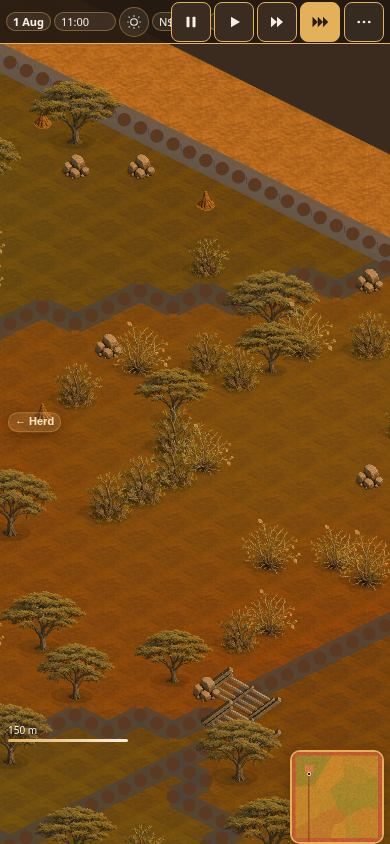
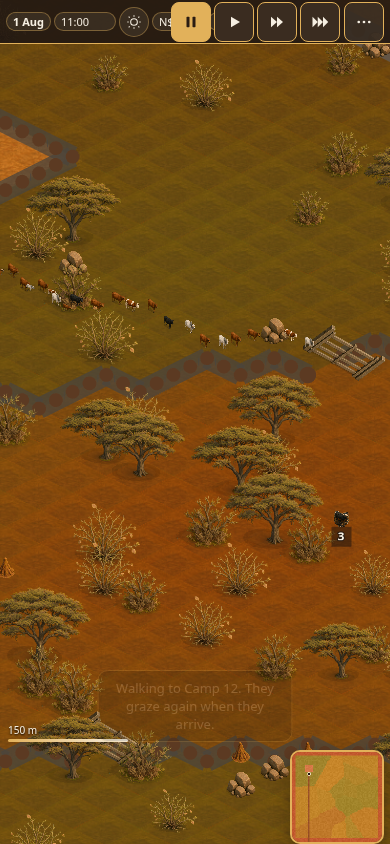
Fix night veil and herd capture with automated screenshot checks
Lock capture clock at 22:00, add DOM night-veil for visible darkness in
play and PNGs, frame the herd mid-transit with cull skip and transit hold,
and fail capture-step1 when night luma or cattle in view checks do not pass.

diff --git a/src/render/FarmScene.ts b/src/render/FarmScene.ts
@@ -108,6 +108,10 @@ export class FarmScene extends Phaser.Scene {
   private homesteadGlow?: Phaser.GameObjects.Graphics;
   private homesteadLight?: { x: number; y: number };
   private captureHideHerdLabel = false;
+  private captureLightingHour: number | null = null;
+  private captureFreezeClock = false;
+  private captureSkipCowCull = false;
+  private captureHoldTransit = false;
   private selected = false;
   private pendingCampId: number | null = null;
   private pendingCampName = "";
@@ -260,6 +264,7 @@ export class FarmScene extends Phaser.Scene {
     this.syncHud();
     const onResize = () => {
       if (!this.sys?.isActive()) return;
+      this.fitNightOverlay();
       this.layoutCamera(false);
     };
     this.scale.on("resize", onResize);
@@ -286,12 +291,23 @@ export class FarmScene extends Phaser.Scene {
   }
 
   private applyRanchLighting(): void {
-    const hour = this.state.date.hour;
+    const hour = this.captureLightingHour ?? this.state.date.hour;
     const blend = sceneDaylightBlend(hour);
     const night = nightOverlayAlpha(hour);
     this.hud.setDaylight(blend);
+    this.hud.setNightChrome(night > 0.35);
+    this.fitNightOverlay();
     if (this.nightOverlay) this.nightOverlay.setAlpha(night);
+    const veil = document.getElementById("night-veil");
+    if (veil) veil.style.opacity = String(night);
     this.updateHomesteadGlow(night);
+  }
+
+  private fitNightOverlay(): void {
+    if (!this.nightOverlay) return;
+    const cam = this.cameras.main;
+    this.nightOverlay.setPosition(0, 0);
+    this.nightOverlay.setSize(Math.ceil(cam.width), Math.ceil(cam.height));
   }
 
   private updateHomesteadGlow(nightAlpha: number): void {
@@ -315,6 +331,102 @@ export class FarmScene extends Phaser.Scene {
     if (!this.state.clock) return;
     this.state.clock.settings.dayLengthSeconds = seconds;
     this.persist();
+  }
+
+  private captureDiagnostics(): Record<string, unknown> {
+    const cam = this.cameras.main;
+    const center = this.mobCenter();
+    const night = nightOverlayAlpha(this.captureLightingHour ?? this.state.date.hour);
+    return {
+      hour: this.state.date.hour,
+      hudTime: document.getElementById("stat-time")?.textContent ?? "",
+      nightOverlay: this.nightOverlay?.alpha ?? 0,
+      nightAlpha: night,
+      daylightBlend: sceneDaylightBlend(this.captureLightingHour ?? this.state.date.hour),
+      inTransit: herdInTransit(this.state.herd),
+      transitProgress: this.state.herd.transit?.progress ?? 0,
+      cattleInView: this.countCattleInView(),
+      mobCenter: center,
+      cameraCenter: {
+        x: cam.scrollX + cam.width / (2 * cam.zoom),
+        y: cam.scrollY + cam.height / (2 * cam.zoom),
+      },
+      zoom: cam.zoom,
+      canvasLuminance: this.canvasMeanLuminance(),
+    };
+  }
+
+  private canvasMeanLuminance(): number {
+    if (typeof document === "undefined") return 0;
+    const canvas = document.querySelector<HTMLCanvasElement>("#game canvas");
+    if (!canvas) return 0;
+    const ctx = canvas.getContext("2d", { willReadFrequently: true });
+    if (!ctx || canvas.width < 8 || canvas.height < 8) return 0;
+    const sampleW = Math.min(320, canvas.width);
+    const sampleH = Math.min(240, canvas.height);
+    const ox = Math.floor((canvas.width - sampleW) / 2);
+    const oy = Math.floor((canvas.height - sampleH) / 2);
+    const data = ctx.getImageData(ox, oy, sampleW, sampleH).data;
+    let sum = 0;
+    const pixels = data.length / 4;
+    for (let i = 0; i < data.length; i += 4) {
+      sum += data[i] * 0.2126 + data[i + 1] * 0.7152 + data[i + 2] * 0.0722;
+    }
+    return sum / pixels;
+  }
+
+  private countCattleInView(): number {
+    const view = this.cameras.main.worldView;
+    let count = 0;
+    for (let i = 0; i < this.cows.length; i += 1) {
+      const cow = this.cows[i];
+      if (!cow.visible) continue;
+      if (view.contains(cow.x, cow.y)) count += 1;
+    }
+    return count;
+  }
+
+  private holdTransitProgress(progress?: number): boolean {
+    if (!herdInTransit(this.state.herd)) return false;
+    this.captureHoldTransit = true;
+    this.captureFreezeClock = true;
+    this.setSpeed("pause");
+    if (typeof progress === "number" && this.state.herd.transit) {
+      this.state.herd.transit.progress = Math.max(0.05, Math.min(0.95, progress));
+    }
+    this.syncHerdFromSim();
+    this.placeHerd(performance.now());
+    return true;
+  }
+
+  private bumpHerdCaptureZoom(zoom: number): Record<string, unknown> {
+    this.captureSkipCowCull = true;
+    this.captureHideHerdLabel = true;
+    this.hud.setHerdLocator(false, "", "right");
+    const camera = this.cameras.main;
+    camera.setZoom(clampZoom(zoom, this.minZoom, this.maxZoom));
+    this.placeHerd(performance.now());
+    for (const cow of this.cows) cow.setVisible(true);
+    return this.captureDiagnostics();
+  }
+
+  private frameHerdForCapture(zoom: number): Record<string, unknown> {
+    this.captureSkipCowCull = true;
+    this.captureHideHerdLabel = true;
+    this.hud.setHerdLocator(false, "", "right");
+    this.syncHerdFromSim();
+    this.placeHerd(performance.now());
+    const camera = this.cameras.main;
+    camera.setZoom(clampZoom(zoom, this.minZoom, this.maxZoom));
+    const center = this.mobCenter();
+    this.jumpCameraTo(center.x, center.y, false);
+    this.placeHerd(performance.now());
+    const refined = this.mobCenter();
+    camera.centerOn(refined.x, refined.y);
+    this.clampScroll();
+    this.placeHerd(performance.now());
+    for (const cow of this.cows) cow.setVisible(true);
+    return this.captureDiagnostics();
   }
 
   private pickDistantMoveCamp(): number | null {
@@ -483,6 +595,10 @@ export class FarmScene extends Phaser.Scene {
         };
       },
       prepareForScreenshot: () => {
+        this.captureFreezeClock = true;
+        this.captureLightingHour = null;
+        this.captureSkipCowCull = false;
+        this.captureHoldTransit = false;
         this.setSpeed("pause");
         this.hud.hideEventCard();
         this.hud.clearHint();
@@ -555,17 +671,24 @@ export class FarmScene extends Phaser.Scene {
         return true;
       },
       setNightForCapture: () => {
+        this.captureLightingHour = 22;
         this.state.date.hour = 22;
         this.applyRanchLighting();
         this.syncHud();
-        return true;
+        return this.captureDiagnostics();
       },
       resetDaylightForCapture: () => {
+        this.captureLightingHour = 11;
         this.state.date.hour = 11;
         this.applyRanchLighting();
         this.syncHud();
-        return true;
+        return this.captureDiagnostics();
       },
+      captureDiagnostics: () => this.captureDiagnostics(),
+      canvasMeanLuminance: () => this.canvasMeanLuminance(),
+      countCattleInView: () => this.countCattleInView(),
+      herdInTransit: () => herdInTransit(this.state.herd),
+      frameHerdForCapture: (zoom = 1.05) => this.frameHerdForCapture(zoom),
       setSpeed: (mode: SpeedMode) => {
         this.setSpeed(mode);
         return true;
@@ -585,37 +708,20 @@ export class FarmScene extends Phaser.Scene {
         this.redrawFences();
         return camera.zoom;
       },
-      zoomHerdWalkCapture: () => {
-        const camera = this.cameras.main;
-        this.captureHideHerdLabel = true;
-        this.refreshHerdLabel();
-        camera.setZoom(clampZoom(1.02, this.minZoom, this.maxZoom));
-        const center = this.mobCenter();
-        this.jumpCameraTo(center.x, center.y, false);
-        this.clampScroll();
-        this.placeHerd(performance.now());
-        return camera.zoom;
-      },
-      zoomHerdCloseupCapture: () => {
-        const camera = this.cameras.main;
-        this.captureHideHerdLabel = true;
-        this.refreshHerdLabel();
-        camera.setZoom(clampZoom(1.22, this.minZoom, this.maxZoom));
-        const center = this.mobCenter();
-        this.jumpCameraTo(center.x, center.y, false);
-        this.clampScroll();
-        this.placeHerd(performance.now());
-        return camera.zoom;
-      },
+      zoomHerdWalkCapture: () => this.frameHerdForCapture(1.05),
+      zoomHerdCloseupCapture: () => this.bumpHerdCaptureZoom(1.16),
+      bumpHerdCaptureZoom: (zoom: number) => this.bumpHerdCaptureZoom(zoom),
+      holdTransitProgress: (progress?: number) => this.holdTransitProgress(progress),
       pickDistantMoveCamp: () => this.pickDistantMoveCamp(),
       triggerHerdMoveDemo: () => {
+        this.captureFreezeClock = false;
         const targetId = this.pickDistantMoveCamp();
         const target =
           (targetId !== null && this.state.camps.find((c) => c.id === targetId)) ??
           this.state.camps.find((c) => c.id !== this.state.herd.campId);
         if (target) this.commitMove(target.id);
         this.setSpeed("x3");
-        return true;
+        return { started: Boolean(target), targetId: target ? target.id : null };
       },
       openNotificationsDemo: () => {
         this.hud.pushLetter({
@@ -671,7 +777,10 @@ export class FarmScene extends Phaser.Scene {
     }
     this.state.clock.speed = speedMultiplier(this.mode);
     let steps = 0;
-    if (!walking) {
+    if (this.captureLightingHour !== null) {
+      this.state.date.hour = this.captureLightingHour;
+    }
+    if (!walking && !this.captureFreezeClock) {
       let catchUp = 0;
       if (this.visibilityCatchMs > 0) {
         catchUp = this.visibilityCatchMs;
@@ -707,7 +816,7 @@ export class FarmScene extends Phaser.Scene {
       pushCritical: (title, body) => this.hud.showEventCard(title, body),
       syncAlerts: (labels) => this.hud.syncAlerts(labels),
     });
-    if (walking && transitMayAdvance(blocked, this.mode)) {
+    if (walking && transitMayAdvance(blocked, this.mode) && !this.captureFreezeClock && !this.captureHoldTransit) {
       const was = this.state.herd.transit?.progress ?? 0;
       tickTransitRealtime(this.state, delta, this.mode);
       if (!herdInTransit(this.state.herd)) {
@@ -1270,14 +1379,16 @@ export class FarmScene extends Phaser.Scene {
           sprite.y <= view.bottom + pad,
       );
     }
-    for (let i = 0; i < this.cows.length; i += 1) {
-      const cow = this.cows[i];
-      const offset = this.herdOffsets[i];
-      const cx = this.herdVisual.x + (offset?.x ?? 0);
-      const cy = this.herdVisual.y + (offset?.y ?? 0);
-      cow.setVisible(
-        cx >= view.x - pad - 24 && cx <= view.right + pad + 24 && cy >= view.y - pad - 24 && cy <= view.bottom + pad + 24,
-      );
+    if (!this.captureSkipCowCull) {
+      for (let i = 0; i < this.cows.length; i += 1) {
+        const cow = this.cows[i];
+        const offset = this.herdOffsets[i];
+        const cx = this.herdVisual.x + (offset?.x ?? 0);
+        const cy = this.herdVisual.y + (offset?.y ?? 0);
+        cow.setVisible(
+          cx >= view.x - pad - 24 && cx <= view.right + pad + 24 && cy >= view.y - pad - 24 && cy <= view.bottom + pad + 24,
+        );
+      }
     }
   }
 

diff --git a/src/style.css b/src/style.css
@@ -35,6 +35,16 @@ body {
   touch-action: none;
 }
 
+#night-veil {
+  position: fixed;
+  inset: 0;
+  z-index: 1;
+  pointer-events: none;
+  background: radial-gradient(ellipse 36% 28% at 22% 34%, rgba(255, 200, 120, 0.22), transparent 70%),
+    linear-gradient(180deg, rgba(6, 12, 32, 0.94), rgba(4, 8, 20, 0.9));
+  opacity: 0;
+}
+
 #hud-root {
   position: fixed;
   inset: 0;
@@ -1110,6 +1120,14 @@ body {
 
 #game canvas {
   filter: brightness(calc(0.55 + 0.45 * var(--daylight-blend, 1)));
+}
+
+#hud-root.ranch-night {
+  --daylight-blend: 0.22;
+}
+
+#hud-root.ranch-night .topbar.compact {
+  background: rgba(12, 16, 28, 0.92);
 }
 
 .chip-time {

diff --git a/src/render/hud.ts b/src/render/hud.ts
@@ -50,6 +50,7 @@ export type Hud = {
   pushNewsLog(lines: string[]): void;
   setScaleBar(label: string): void;
   setDaylight(blend: number): void;
+  setNightChrome(active: boolean): void;
   destroy(): void;
 };
 
@@ -557,6 +558,9 @@ export function mountHud(options: {
     },
     setDaylight(blend) {
       root.style.setProperty("--daylight-blend", String(Math.max(0, Math.min(1, blend))));
+    },
+    setNightChrome(active) {
+      root.classList.toggle("ranch-night", active);
     },
     destroy() {
       if (toastTimer) clearTimeout(toastTimer);

diff --git a/index.html b/index.html
@@ -15,6 +15,7 @@
   </head>
   <body>
     <div id="game"></div>
+    <div id="night-veil" aria-hidden="true"></div>
     <div id="hud-root"></div>
     <script type="module" src="/src/main.ts"></script>
   </body>
